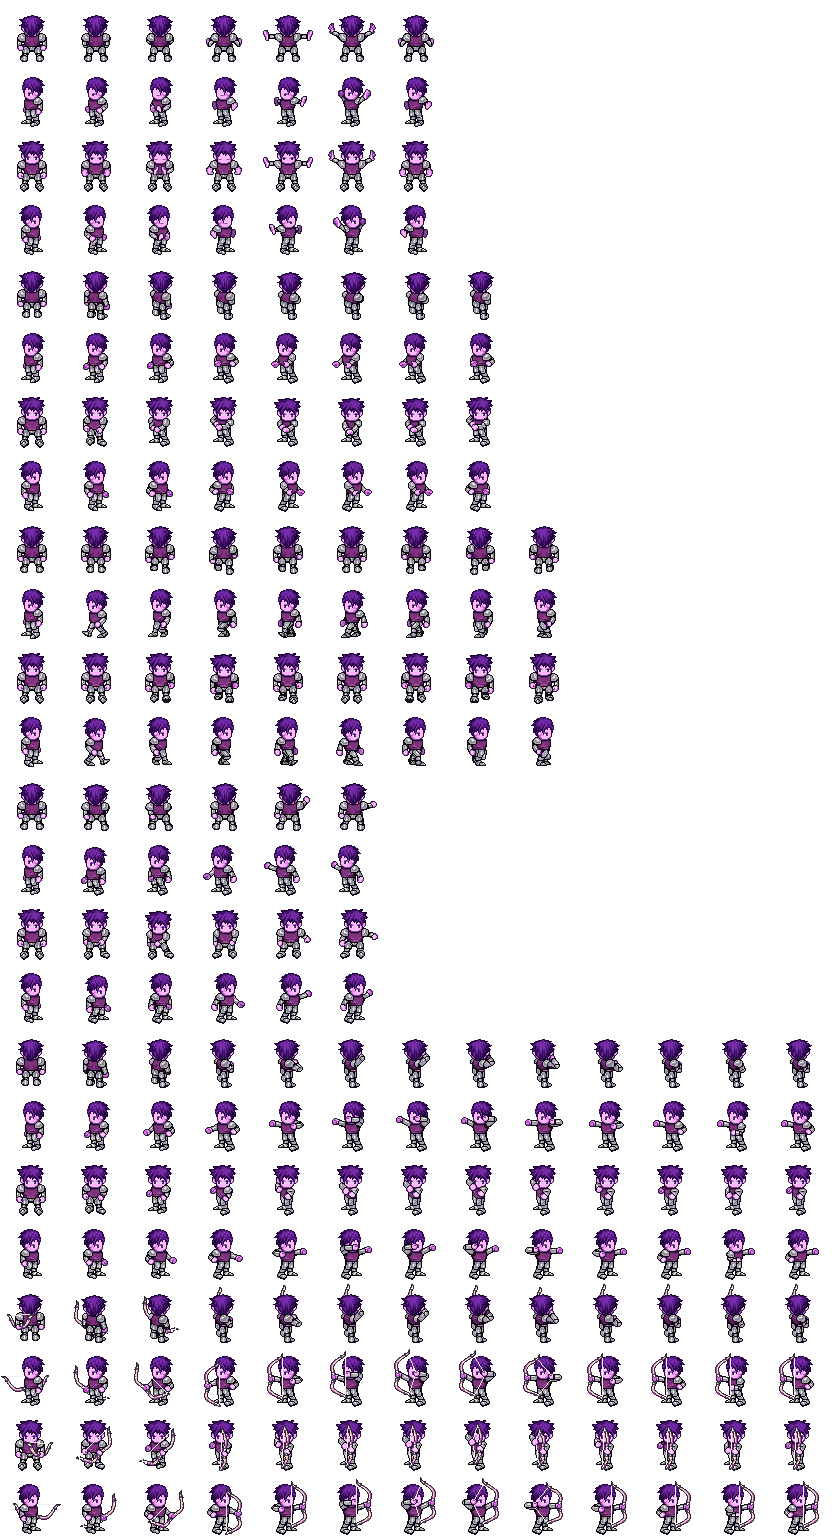
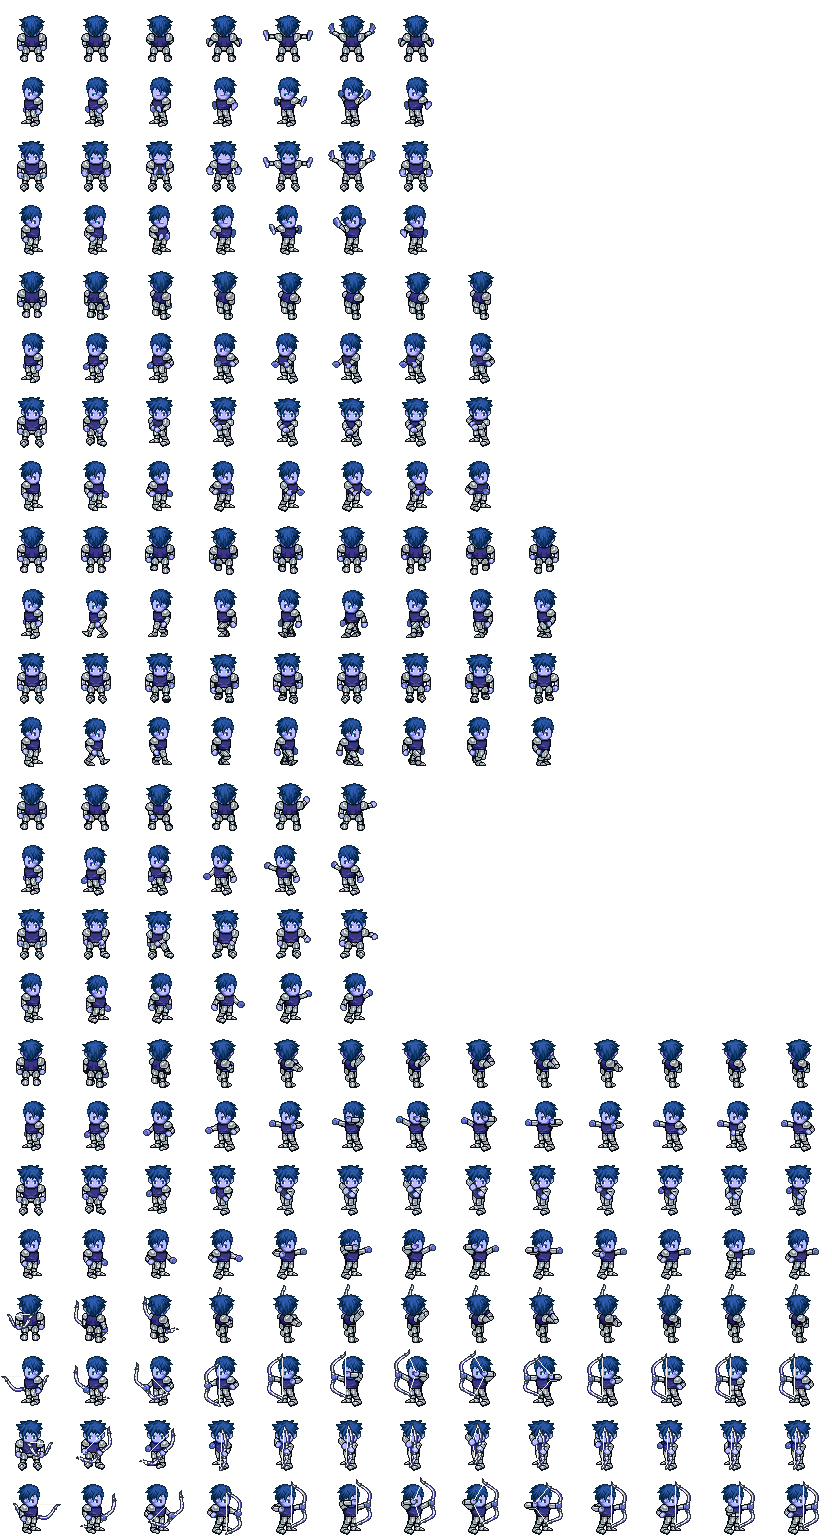
Altera layout do jogo

diff --git a/js/Game.js b/js/Game.js
@@ -3,11 +3,7 @@ var antes = new Date();
 var agora = new Date();
 var dt = 0;
 var mapa, pc, imglib;
-var weap = 0; vida = 5, lvl = 0, aux = 1, inicio = 1;
-
-/*var telaInicial = new Image();
-telaInicial.src = "img/tela.png";
-ctx.drawImage(telaInicial, 0, 0, 800, 480);*/     //desenhar imagemdepois retirar
+var weap = 0; vida = 5, lvl = 0, aux = 1, inicio = 1, pers = 0;
 
 function init(){
   tela = document.getElementsByTagName('canvas')[0];
@@ -17,7 +13,8 @@ function init(){
   ctx = tela.getContext('2d');
 
   imglib = new ImageLoader();    
-  imglib.load("elem", "img/struct.png");    
+  imglib.load("elem", "img/struct.png");
+  imglib.load("personagem", "img/pers.png");
   imglib.load("en0", "img/en0.png");
   imglib.load("en1", "img/en1.png");
   imglib.load("en2", "img/en2.png");
@@ -25,7 +22,6 @@ function init(){
   imglib.load("en4", "img/en4.png");
   imglib.load("en5", "img/en5.png");
   imglib.load("en6", "img/en6.png");
-
     
   pc = new Sprite();
   pc.imageLib = imglib;
@@ -47,18 +43,22 @@ function passo(){
   dt = (agora - antes)/1000; 
   ctx.clearRect(0,0, tela.width, tela.height);
 
-  imglib.load("pc", "img/pc"+ (lvl % 6) +".png");
-  imglib.load("fc" + weap +"", "img/arma"+ weap +".png");  
-  mapa.alterarLevel(mapa);
-  mapa.revelarChave(mapa);
-  mapa.gerarVida(mapa);
-  mapa.desenhar(ctx);
-  mapa.persegue(pc);
-  mapa.testarAColisao(pc); 
-  mapa.testarAColisaoTiros(mapa);
-  pc.moverOnMap(mapa, dt);
-  mapa.moverInimigosOnMap(mapa, dt);  
-  pc.desenhar(ctx);  
+  imglib.load("fc" + weap +"", "img/arma"+ weap +".png");
+  imglib.load("pc", "img/pc"+ pers +".png"); 
+
+  if(inicio == 2){
+    mapa.alterarLevel(mapa);
+    mapa.revelarChave(mapa);
+    mapa.gerarVida(mapa);
+    mapa.desenhar(ctx);
+    mapa.persegue(pc);
+    mapa.testarAColisao(pc); 
+    mapa.testarAColisaoTiros(mapa);
+    pc.moverOnMap(mapa, dt);
+    mapa.moverInimigosOnMap(mapa, dt);  
+    pc.desenhar(ctx);
+  }
+  
   detalhesGame(id);
     
   antes = agora;
@@ -82,73 +82,30 @@ function detalhesGame(id){
   var eChv = document.getElementById("chv");
   eChv.innerText = mapa.chave;
 
-  if(vida == 0){ 
-    cancelAnimationFrame(id);
-    mapa.cont = 0; 
+  if(vida == 0){    
+    mapa.cont = 0;
+    inicio = 3;
 
-    var txt = "Tente de novo!";
-    var txt2 = "Enter &";
-    var txt3 = "Reinicie!";
-    
-    ctx.fillStyle = "black"; 
-    ctx.globalAlpha = 0.8;  
-    ctx.fillRect(0, 0, tela.width, tela.height);                    
-    ctx.font = "100px Arial";
-    ctx.fillStyle = "white";
-    ctx.fillText(txt, 80, 100);
-    ctx.fillText(txt2, 170, 275);
-    ctx.fillText(txt3, 260, 450);            
+    var telaPerdeu = new Image();
+    telaPerdeu.src = "img/telaPerder.png";
+    ctx.drawImage(telaPerdeu, 0, 0, 800, 480);    
   } 
 
   if(lvl == 0 && inicio == 1){
-    cancelAnimationFrame(id);   
-    
-    var txt = "Welcome to the Game! ";
-    var txt2 = "Comandos: "
-    var txt3 = "Movimentos     Pausa    Atirar    Iniciar";
+    var telaInic = new Image();
+    telaInic.src = "img/telaInicial.png";
+    ctx.drawImage(telaInic, 0, 0, 800, 480); 
 
-    var txt4 = "◙ Ao atingir cinco inimigos, revela a chave";
-    var txt5 = "◙ Use a chave para desbloquear a porta";
-    var txt6 = "◙ Nível máximo: 12";
-    var txt7 = "[w]               [↑]";
-    var txt8 = "[A] [S] [D]   [←] [↓] [→]      [P]       [Space]    [Enter]";
-    
-    ctx.fillStyle = "#87CEEB";
-    ctx.fillRect(0, 0, tela.width, tela.height);                    
-    ctx.font = "60px Arial";
-    ctx.fillStyle = "darkRed";
-    ctx.fillText(txt, 95, 100);
-
-    ctx.font = "25px Arial";
-    ctx.fillStyle = "#fff";
-    ctx.fillText(txt7, 165,260);
-    ctx.fillText(txt8, 127, 290);    
-
-    ctx.font = "30px Arial";
-    ctx.fillStyle = "#000";
-    ctx.fillText(txt2, 100, 160);
-    ctx.fillText(txt3, 180, 205);
-    ctx.fillText(txt4, 100, 375);
-    ctx.fillText(txt5, 100, 405);
-    ctx.fillText(txt6, 100, 435);       
+    imglib.drawImageTile(ctx, "personagem", 0, pers, 128, 336, 200);        
   }
 
-  if(lvl == 13 && inicio == 2){
-    cancelAnimationFrame(id);
-    lvl = 0;
-    inicio = 1;
-    
-    var txt = "Nível Máximo!";
-    var txt2 = "Tecle Enter";
-    var txt3 = "E Reinicie!";
-    
-    ctx.fillStyle = "darkRed";
-    ctx.fillRect(0, 0, tela.width, tela.height);                    
-    ctx.font = "100px Arial";
-    ctx.fillStyle = "#FFD700";
-    ctx.fillText(txt, 60, 100);
-    ctx.fillText(txt2, 190, 275);
-    ctx.fillText(txt3, 280, 450);    
+  if(lvl >= 13){
+    mapa.enemies.length = 0;   
+    inicio = 4;
+
+    var telaLvlMax = new Image();
+    telaLvlMax.src = "img/telaLevelMax.png";
+    ctx.drawImage(telaLvlMax, 0, 0, 800, 480);
   }
 }
 
@@ -194,7 +151,7 @@ function configuraControles(){
           var txt3 = "Café!";
           
           ctx.fillStyle = "#9AC0CD";
-          ctx.globalAlpha = 0.8;
+          ctx.globalAlpha = 0.75;
           ctx.fillRect(0, 0, tela.width, tela.height);                    
           ctx.font = "100px Arial";
           ctx.fillStyle = "darkRed";
@@ -222,15 +179,19 @@ function configuraControles(){
           weap = 0;
         }
       break;
+      case 82:
+        if(inicio == 1){
+          if(pers == 0) pers++;
+          else if(pers == 1) pers++;
+          else if(pers == 2) pers++;
+          else if(pers == 3) pers++;
+          else if(pers == 4) pers++;
+          else if(pers == 5) pers = 0;
+        }
+      break;
       case 13:
-          if(vida == 0 || (lvl == 0 && inicio == 1)){
-            vida = 5;
-            lvl = 0;
+          if(lvl == 0 && inicio == 1){            
             inicio = 2;
-            aux = 1;
-            antes = new Date();                      
-            requestAnimationFrame(passo);
-            ctx.globalAlpha = 1;
             mapa.enemies.length = 0;
             mapa.loadMap([
               [1,1,1,1,1,1,1,1,1,1,1,1,1,1,1,1,1,1,1,1],
@@ -246,6 +207,11 @@ function configuraControles(){
               [1,0,9,0,0,0,0,0,0,0,0,9,0,0,0,0,0,1,1,1],
               [1,1,1,1,1,1,1,1,1,1,1,1,1,1,1,1,1,1,1,1]
             ]);            
+          }
+          else if((vida == 0 && inicio == 3) || inicio == 4){
+            lvl = 0;
+            inicio = 1;
+            vida = 5;
           }
       break;
       case 32:

diff --git a/js/Map.js b/js/Map.js
@@ -199,11 +199,9 @@ Map.prototype.tiro = function(ctx, x, y, dir){
   tiro.imageLib = this.imageLib;
   
   tiro.x = x;
-  tiro.y = y - 15;
-  //tiro.tamx =  0;
-  //tiro.tamy =  20;
+  tiro.y = y - 15;  
   tiro.SIZE = 20;
-  //tiro.color = "yellow";
+  tiro.color = "yellow";
   pc.tiro = 1;
   tiro.tempo = dt;
   switch (dir){
